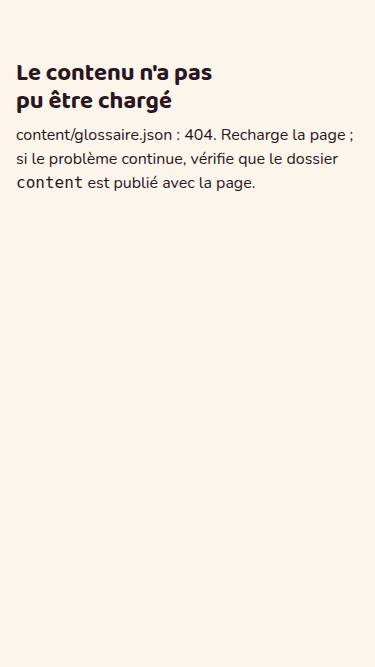
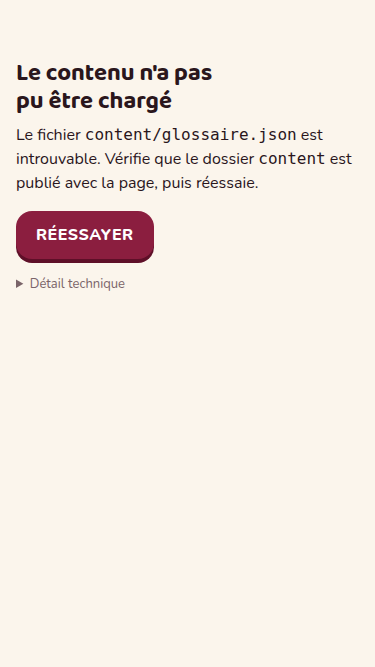
A-31 : message de chargement clair, en français, avec Réessayer
getJSON précise le fichier et la cause (introuvable, inaccessible, mal
formé, injoignable) ; l'écran d'erreur l'explique en français, propose un
bouton Réessayer et replie le message technique du navigateur.

Claude-Session: https://claude.ai/code/session_01AWT2yThQPxsBnWcfbm4fRw

Changed region(s): [[0.0293, 0.1799, 0.9387, 0.4498]]

diff --git a/index.html b/index.html
@@ -1366,7 +1366,12 @@ function viewProfil(){
 function applyTheme(){ if (ST.theme) document.documentElement.setAttribute("data-theme", ST.theme); else document.documentElement.removeAttribute("data-theme"); }
 
 /* ---------------- démarrage ---------------- */
-async function getJSON(u){ const r = await fetch(u); if (!r.ok) throw new Error(`${u} : ${r.status}`); return r.json(); }
+async function getJSON(u){
+  const echec = (raison, detail) => Object.assign(new Error(detail), { fichier:u, raison });
+  let r; try { r = await fetch(u); } catch(e) { throw echec("injoignable", e.message); }
+  if (!r.ok) throw echec(r.status === 404 ? "introuvable" : `inaccessible (erreur ${r.status})`, `${u} : HTTP ${r.status}`);
+  try { return await r.json(); } catch(e) { throw echec("mal formé (JSON invalide)", e.message); }
+}
 async function boot(){
   $app.innerHTML = `<main class="wrap" style="text-align:center;padding-top:80px">${mascot("happy")}<p style="font-weight:800;color:var(--muted)">On débouche les bouteilles…</p></main>`;
   try {
@@ -1374,7 +1379,11 @@ async function boot(){
     keys.forEach((k, i) => D[k] = vals[i]);
     await Promise.all(D.niveaux.niveaux.filter(n => n.contenu).map(async n => { LEVELS[n.id] = await getJSON(n.contenu); }));
   } catch(err) {
-    $app.innerHTML = `<main class="wrap" style="padding-top:60px"><h2>Le contenu n'a pas pu être chargé</h2><p style="margin-top:8px">${esc(err.message)}. Recharge la page ; si le problème continue, vérifie que le dossier <code>content</code> est publié avec la page.</p></main>`;
+    $app.innerHTML = `<main class="wrap" style="padding-top:60px"><h2>Le contenu n'a pas pu être chargé</h2>
+      <p style="margin:8px 0 16px">${err.fichier ? `Le fichier <code>${esc(err.fichier)}</code> est ${esc(err.raison)}.` : "Une erreur est survenue au démarrage."} Vérifie que le dossier <code>content</code> est publié avec la page, puis réessaie.</p>
+      <button class="btn" data-retry>Réessayer</button>
+      <details style="margin-top:16px;color:var(--muted);font-size:13px"><summary>Détail technique</summary><code>${esc(err.message)}</code></details></main>`;
+    $app.querySelector("[data-retry]").onclick = () => location.reload();
     return;
   }
   // identifiants stables pour les questions (pile d'erreurs, défi)
